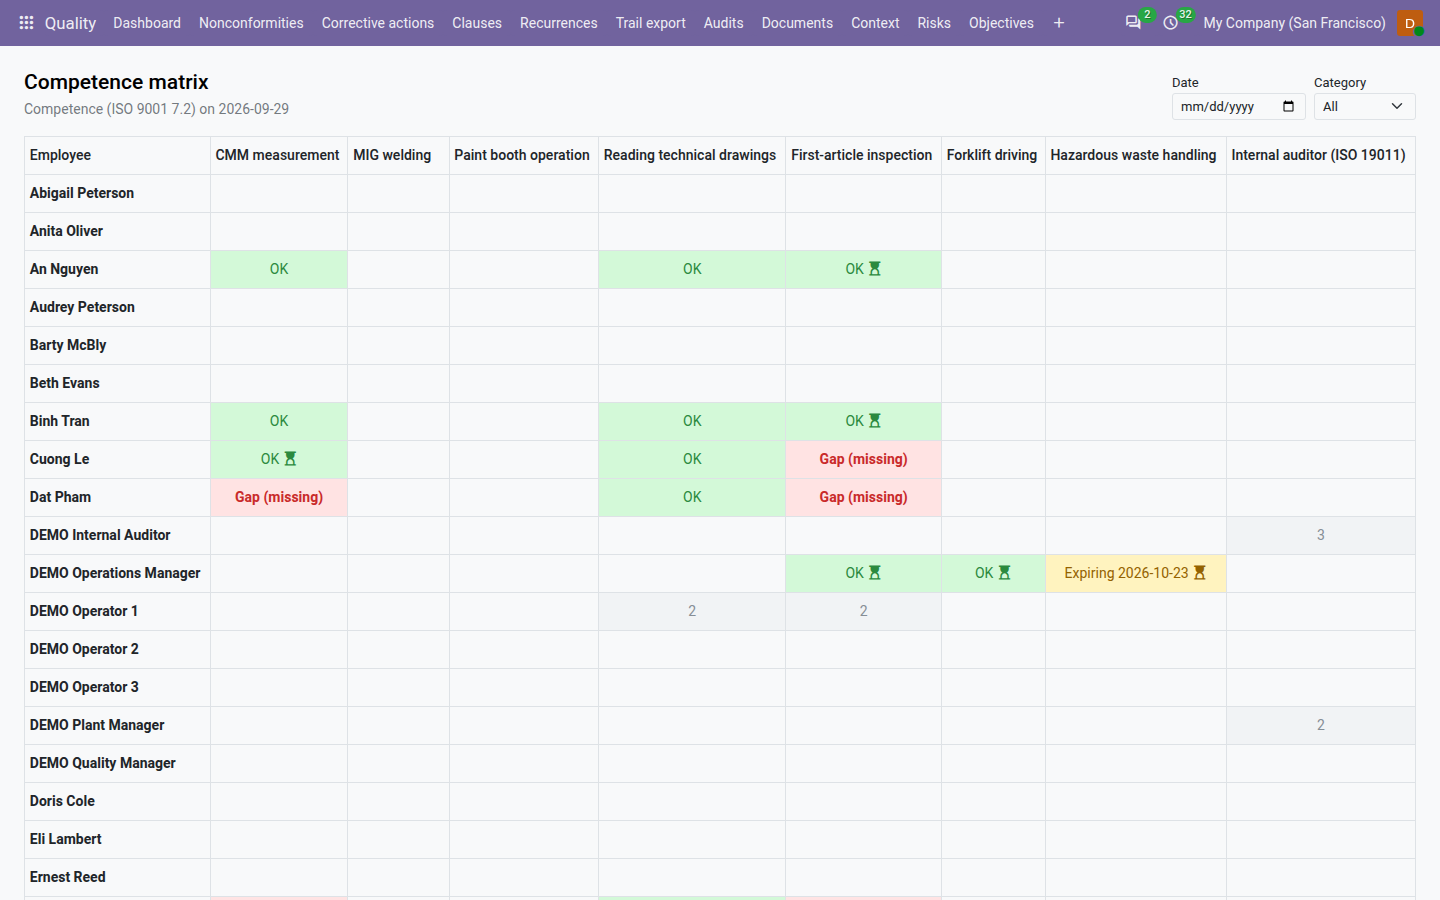
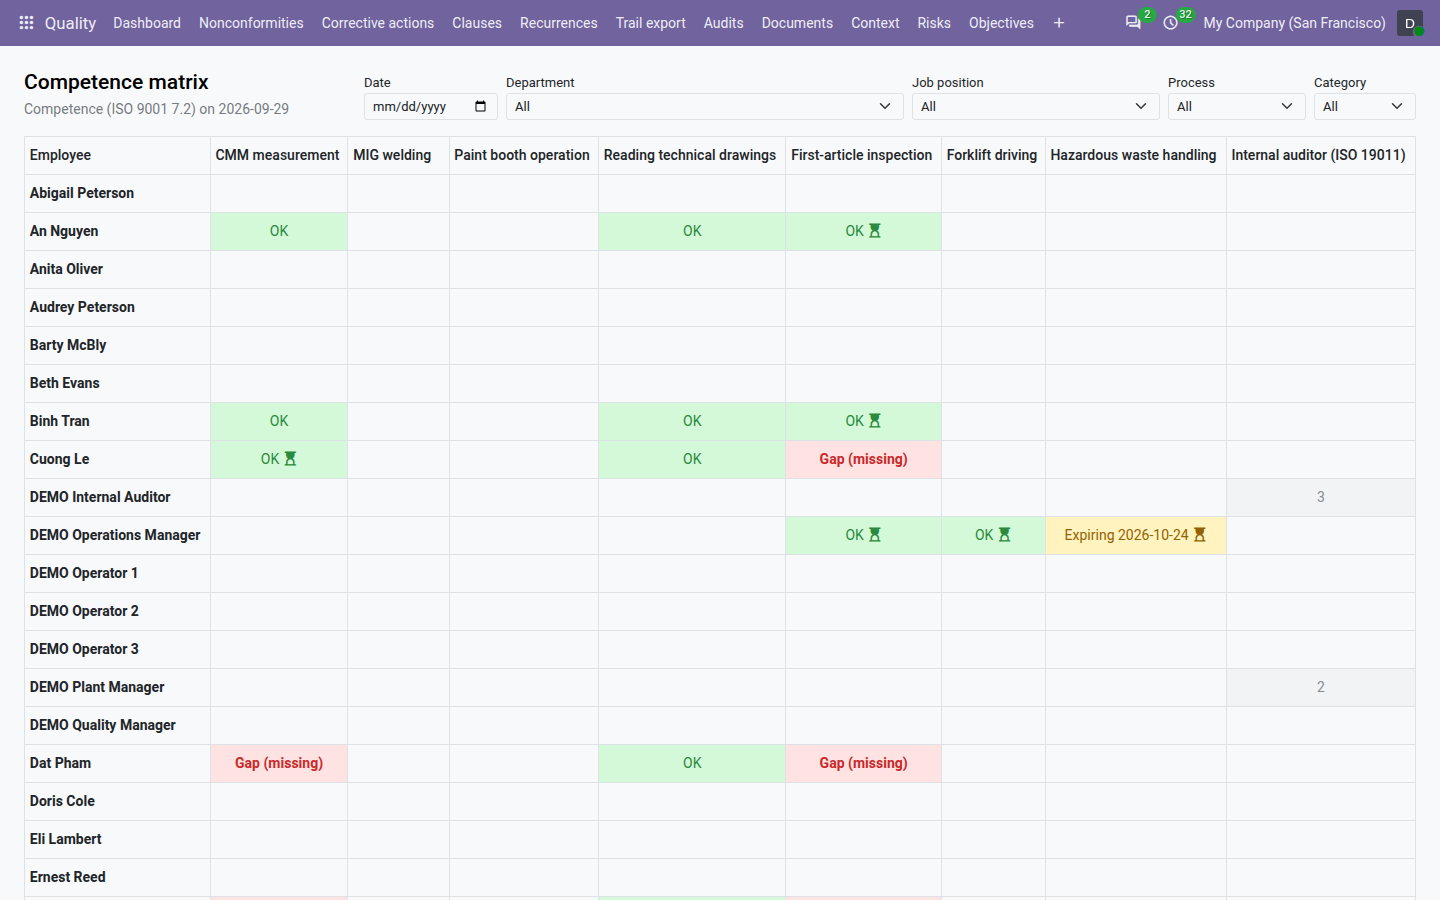
Competence matrix: department, job and process filters

diff --git a/quality/competence.rst b/quality/competence.rst
@@ -190,9 +190,18 @@ nothing required and nothing held has an empty row (the printed matrix leaves su
      - Held but not required.
 
 An hourglass on a cell means the effectiveness of the training behind it is still to be evaluated; hover a cell to see
-its source and assessor, click it to open the record. Choose another :guilabel:`Date` to see the matrix on that day, or
-a :guilabel:`Category`. Quality managers and internal auditors see every employee of their companies; another user sees
-the employees they manage.
+its source and assessor, click it to open the record. Choose another :guilabel:`Date` to see the matrix on that day.
+Quality managers and internal auditors see every employee of their companies; another user sees the employees they
+manage. The filters above the matrix narrow those rows and combine with each other:
+
+- :guilabel:`Department` keeps the employees of that department and of the departments under it.
+- :guilabel:`Job position` keeps the employees holding that job position.
+- :guilabel:`Process` keeps the employees whose user owns the process or is one of its auditees (employees without a
+  user never belong to a process).
+- :guilabel:`Category` keeps the competence columns of that category.
+
+Each list offers only the departments, job positions and processes of the employees you may see; :guilabel:`All`
+lifts the filter.
 
 .. image:: ../_images/competence-matrix.png
    :alt: The competence matrix: employees in rows, competences in columns, cells reading OK, Expiring and Gap
